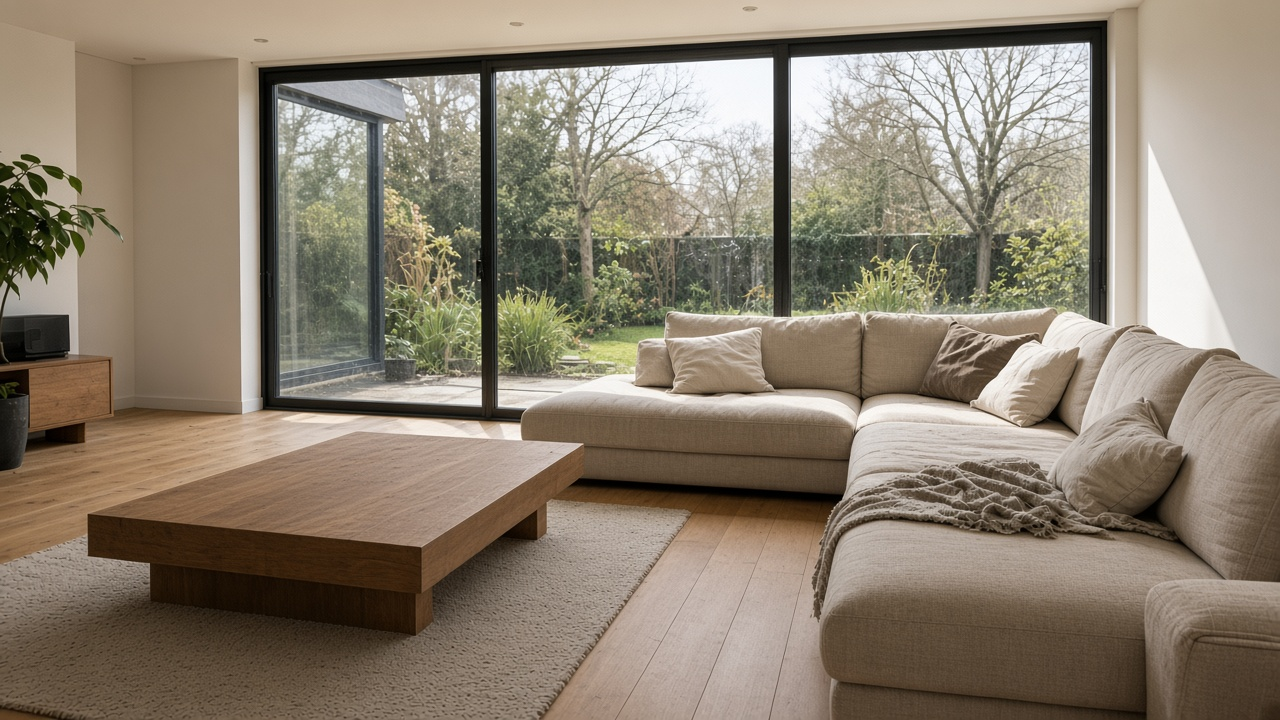
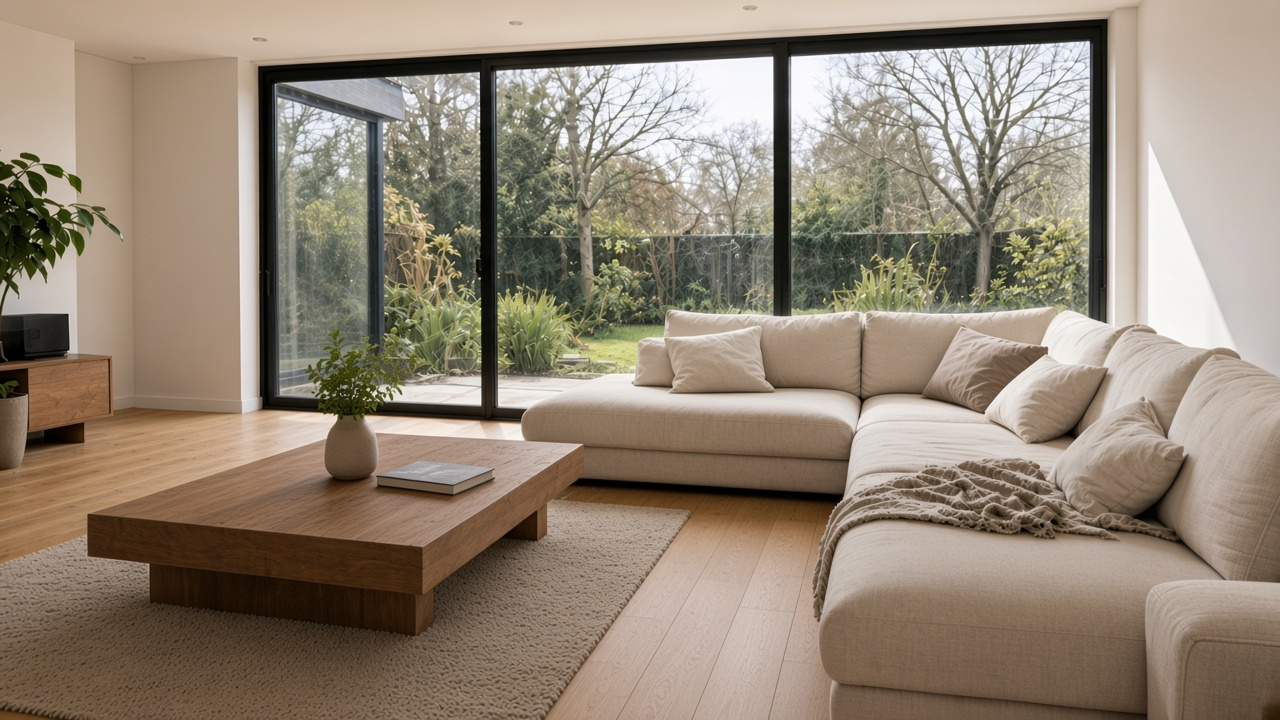
Update hero video

diff --git a/components/Hero.tsx b/components/Hero.tsx
@@ -36,9 +36,11 @@ export default function Hero() {
 
     if (hero.poster && fallback) {
       fallback.classList.add("has-poster");
-      fallback.style.backgroundImage = `linear-gradient(180deg, rgba(8,8,8,.18), rgba(8,8,8,.42)), url("${hero.poster}")`;
+      fallback.style.backgroundColor = "#050505";
+      fallback.style.backgroundImage = `url("${hero.poster}")`;
       fallback.style.backgroundSize = "cover";
-      fallback.style.backgroundPosition = "center";
+      fallback.style.backgroundPosition = "center 78%";
+      fallback.style.backgroundRepeat = "no-repeat";
     }
 
     const clamp01 = (n: number) => Math.min(1, Math.max(0, n));
@@ -53,20 +55,21 @@ export default function Hero() {
     };
 
     const applyVisuals = (progress: number, scrolled: number, total: number) => {
-      media.style.transform = `scale(${1 + progress * 0.1}) translate3d(0, ${progress * 1.5}%, 0)`;
-      if (sheenRef.current) sheenRef.current.style.transform = `translate3d(${progress * 14}%, 0, 0)`;
+      // Keep framing stable — no scale zoom (that cropped the video on export)
+      media.style.transform = "none";
+      if (sheenRef.current) sheenRef.current.style.transform = `translate3d(${progress * 10}%, 0, 0)`;
 
-      const introOut = smoothstep(clamp01(scrolled / 360));
-      const endIn = smoothstep(clamp01((scrolled - (total - 160)) / 160));
+      const introOut = smoothstep(clamp01(scrolled / 380));
+      const endIn = smoothstep(clamp01((scrolled - (total - 180)) / 180));
 
       if (introRef.current) {
         introRef.current.style.opacity = String(1 - introOut);
-        introRef.current.style.transform = `translate3d(0, ${introOut * -28}px, 0)`;
+        introRef.current.style.transform = `translate3d(0, ${introOut * -24}px, 0)`;
         introRef.current.style.pointerEvents = introOut > 0.8 ? "none" : "auto";
       }
       if (endRef.current) {
         endRef.current.style.opacity = String(endIn);
-        endRef.current.style.transform = `translate3d(0, ${(1 - endIn) * 14}px, 0)`;
+        endRef.current.style.transform = `translate3d(0, ${(1 - endIn) * 12}px, 0)`;
         endRef.current.style.pointerEvents = endIn > 0.55 ? "auto" : "none";
       }
       if (hintRef.current) hintRef.current.style.opacity = String(1 - endIn);
@@ -79,14 +82,15 @@ export default function Hero() {
       const { scrolled, total, progress } = readProgress();
       targetProgress = progress;
 
-      const ease = reduceMotion ? 1 : 0.08;
+      // Low lerp = buttery scrub that trails the wheel instead of jumping
+      const ease = reduceMotion ? 1 : 0.038;
       displayProgress = lerp(displayProgress, targetProgress, ease);
       applyVisuals(displayProgress, scrolled, total);
 
       if (hasVideo && video && video.readyState >= 2) {
         const duration = video.duration;
         targetTime = Math.min(displayProgress * duration * 0.985, Math.max(duration - 0.04, 0));
-        displayTime = lerp(displayTime, targetTime, reduceMotion ? 1 : 0.12);
+        displayTime = lerp(displayTime, targetTime, reduceMotion ? 1 : 0.045);
 
         const delta = Math.abs(video.currentTime - displayTime);
         if (!seeking && delta > 0.035) {

diff --git a/components/Footer.tsx b/components/Footer.tsx
@@ -5,7 +5,7 @@ export default function Footer() {
     <footer className="border-t border-white/10 bg-[#060606] px-5 pt-16 pb-8 md:px-8">
       <div className="mx-auto grid max-w-[1120px] gap-10 md:grid-cols-4">
         <div>
-          <a href="#top" className="font-display mb-3 inline-flex items-center gap-2.5 font-bold capitalize">
+          <a href="#top" className="font-display mb-3 inline-flex items-center gap-2.5 font-bold">
             <img src={siteConfig.logo} alt="" className="h-9 w-9" />
             {siteConfig.companyName}
           </a>
@@ -48,7 +48,7 @@ export default function Footer() {
         </div>
       </div>
       <div className="mx-auto mt-12 flex max-w-[1120px] flex-col justify-between gap-3 border-t border-white/10 pt-5 text-sm text-white/40 md:flex-row">
-        <p>© {new Date().getFullYear()} <span className="capitalize">{siteConfig.companyName}</span>. All rights reserved.</p>
+        <p>© {new Date().getFullYear()} {siteConfig.companyName}. All rights reserved.</p>
         <p className="flex gap-4">
           <a href="/privacy">Privacy Policy</a>
           <a href="/terms">Terms & Conditions</a>

diff --git a/app/hero.css b/app/hero.css
@@ -19,15 +19,17 @@
 }
 
 .hero-media {
-  transform-origin: 50% 40%;
-  will-change: transform;
+  transform-origin: center center;
+  will-change: auto;
+  background: #050505;
 }
 
 .hero-video {
   width: 100%;
   height: 100%;
+  /* Fill the hero edge-to-edge; bias framing toward the lower house/clean reveal */
   object-fit: cover;
-  object-position: center center;
+  object-position: center 78%;
   opacity: 0;
   transition: opacity 0.7s ease;
 }
@@ -80,9 +82,9 @@
 }
 
 .hero-vignette {
+  pointer-events: none;
   background:
-    linear-gradient(180deg, rgba(8, 8, 8, 0.42) 0%, rgba(8, 8, 8, 0.28) 38%, rgba(8, 8, 8, 0.78) 100%),
-    radial-gradient(ellipse at center, transparent 12%, rgba(8, 8, 8, 0.58) 100%);
+    linear-gradient(180deg, rgba(8, 8, 8, 0.38) 0%, rgba(8, 8, 8, 0.12) 40%, rgba(8, 8, 8, 0.62) 100%);
 }
 
 .hero-copy {

diff --git a/components/Navbar.tsx b/components/Navbar.tsx
@@ -31,9 +31,9 @@ export default function Navbar() {
             : "border-transparent bg-transparent"
         }`}
       >
-        <a href="#top" className="font-display inline-flex items-center gap-2.5 text-[15px] font-bold tracking-tight capitalize md:text-[17px]">
+        <a href="#top" className="font-display inline-flex items-center gap-2.5 text-[15px] font-bold tracking-tight md:text-[17px]">
           <img src={siteConfig.logo} alt="" className="h-9 w-9 shrink-0" />
-          <span className="max-w-[9.5rem] truncate sm:max-w-none">{siteConfig.companyName}</span>
+          <span className="max-w-[11rem] truncate sm:max-w-none">{siteConfig.companyName}</span>
         </a>
 
         <nav className="absolute left-1/2 hidden -translate-x-1/2 gap-7 text-[15px] text-white/70 md:flex" aria-label="Primary">

diff --git a/data/siteConfig.ts b/data/siteConfig.ts
@@ -157,7 +157,7 @@ export const siteConfig = {
     text: "We proudly serve homes and businesses throughout the local area, bringing professional cleaning services to your doorstep.",
     /** Google Maps embed centered on Sydney — swap this URL when rebranding city */
     mapEmbed:
-      "https://www.google.com/maps?q=Sydney+NSW+Australia&hl=en&z=11&output=embed",
+      "https://maps.google.com/maps?q=Sydney%2C%20NSW%2C%20Australia&z=11&hl=en&output=embed",
     areas: [
       { name: "Sydney" },
       { name: "Bondi" },

diff --git a/components/Logo.tsx b/components/Logo.tsx
@@ -10,7 +10,7 @@ export default function Logo({ className = "" }: { className?: string }) {
           <circle cx="16.5" cy="6" r="1.2" fill="currentColor" stroke="none" />
         </svg>
       </span>
-      <span className="capitalize">{siteConfig.companyName}</span>
+      <span>{siteConfig.companyName}</span>
     </a>
   );
 }
